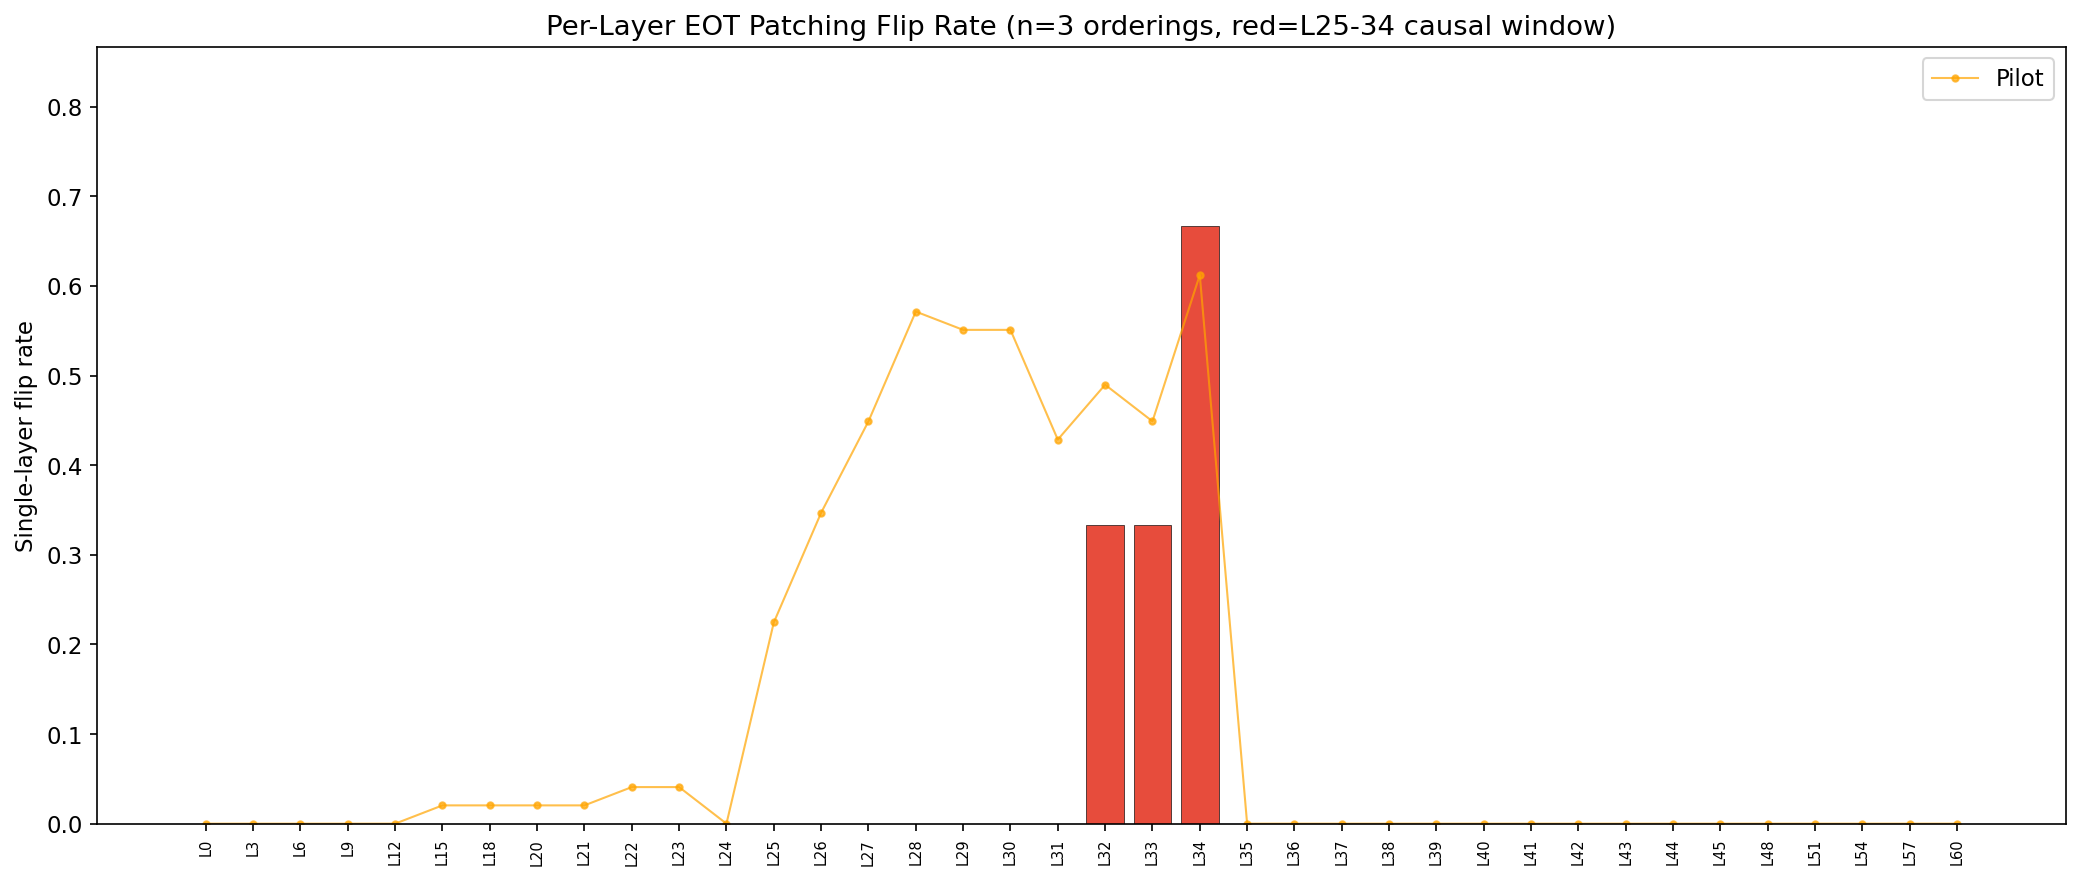
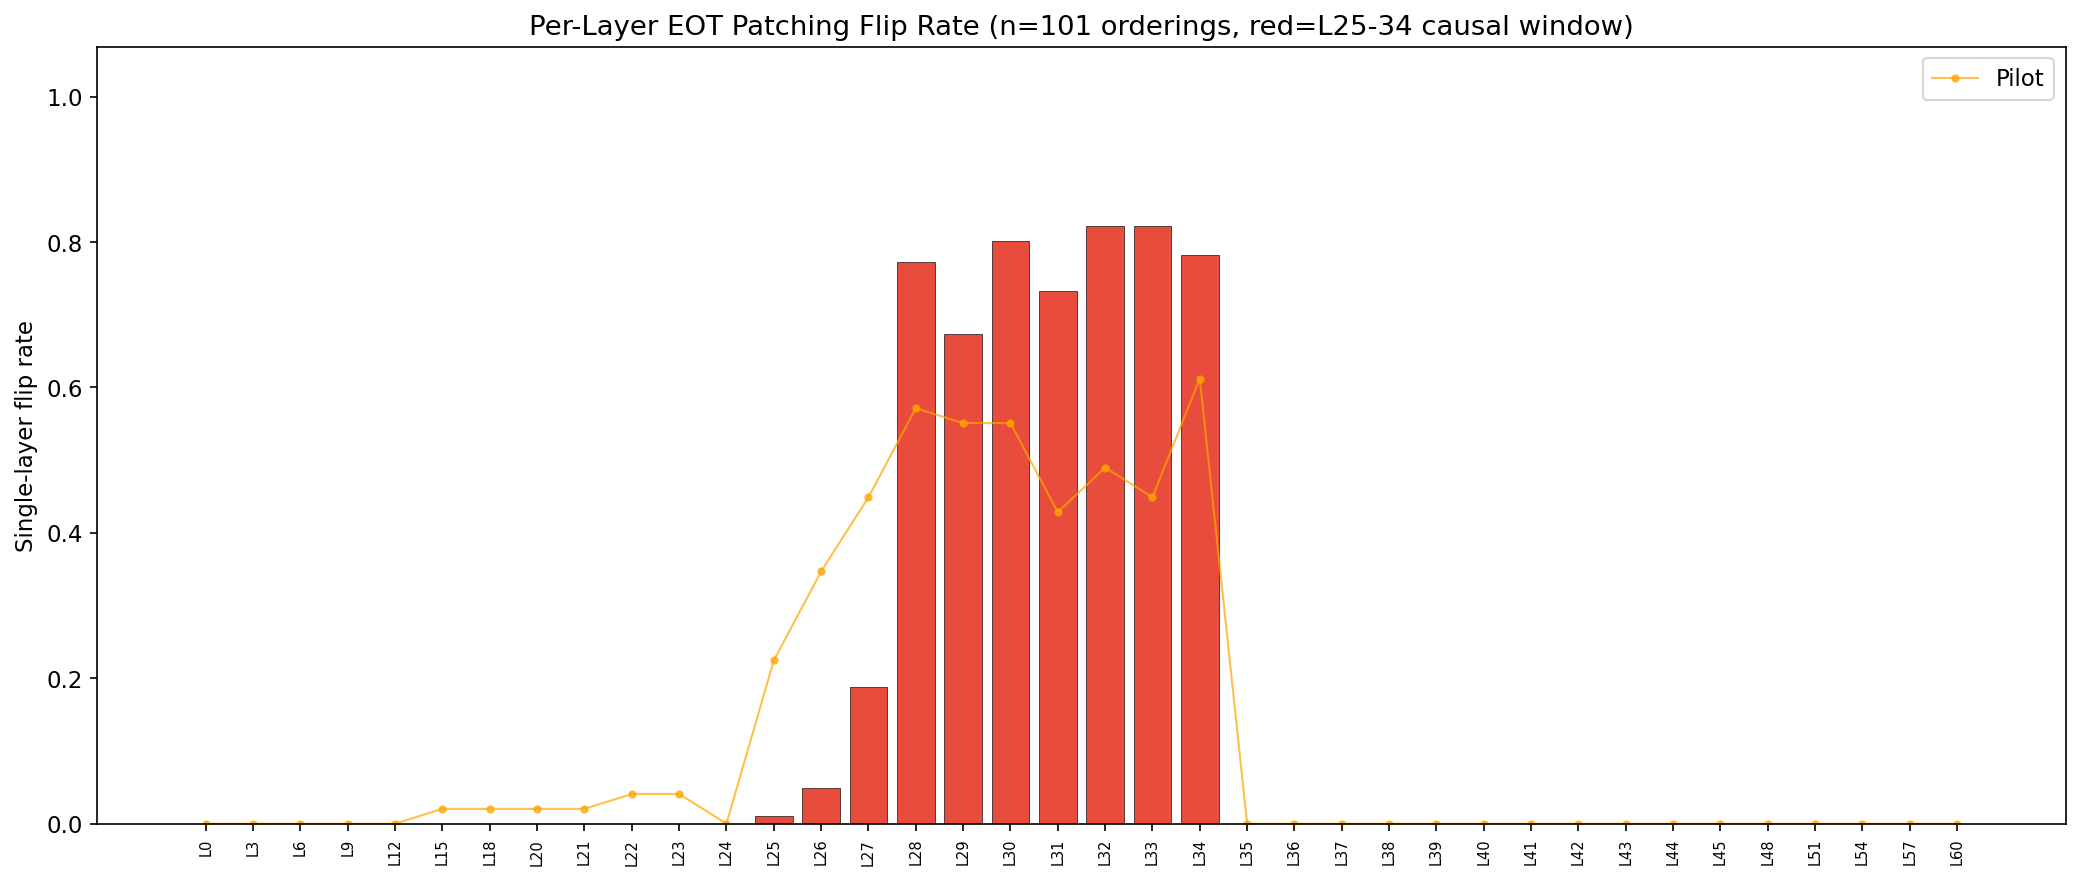
Phase 2 interim: L28-34 causal window confirmed at 67-82% flip rates (n=101)
Layer sweep at n=101 orderings shows sharp causal window:
- L32-33 peak at 82%, L30=80%, L34=78%, L28=77%
- Zero effect outside L26-34
- Much higher than pilot (67-82% vs 43-61%)
- L31 (best probe layer, r=0.86) in middle of window at 73%

diff --git a/experiments/patching/eot_scaled/eot_scaled_report.md b/experiments/patching/eot_scaled/eot_scaled_report.md
@@ -99,16 +99,38 @@ Per-task flip rates range from ~13% to ~83%, broadly distributed across all util
 
 Diverse mix of task types and utility levels in the top-flipping tasks.
 
-## Phase 2: Per-Layer Sweep (IN PROGRESS)
+## Phase 2: Per-Layer Sweep (IN PROGRESS — interim n=101)
 
-Testing 38 layers individually on 5,511 flipping orderings:
-- Every layer in 20-45 (26 layers)
-- Every 3rd layer outside: 0, 3, 6, ..., 18 and 48, 51, 54, 57, 60 (12 layers)
-- 5 trials per layer at temperature 1.0
+Testing 38 layers individually on 5,511 flipping orderings. Interim results from 101 orderings already show a very clear layer profile.
 
-Early data (n=3 orderings): L34 already showing highest single-layer flip rate (67%), with L32-33 also active. Consistent with pilot's L25-34 causal window.
+![Per-layer flip rates](assets/plot_030626_layer_sweep.png)
 
-Expected completion: ~24h from Phase 1 end (~March 7 12:00 UTC).
+### Interim layer profile (n=101)
+
+| Layer | Flip rate | vs Pilot |
+|-------|-----------|----------|
+| L0-25 | 0% | pilot: 0-5% |
+| L26 | 4% | pilot: ~5% |
+| L27 | 18% | pilot: ~45% |
+| **L28** | **77%** | pilot: ~57% |
+| **L29** | **67%** | pilot: ~55% |
+| **L30** | **80%** | pilot: ~55% |
+| **L31** | **73%** | pilot: ~55% |
+| **L32** | **82%** | pilot: ~45% |
+| **L33** | **82%** | pilot: ~43% |
+| **L34** | **78%** | pilot: ~61% |
+| L35+ | 0% | pilot: 0% |
+
+Key findings:
+- **Causal window confirmed: L28-34** — exactly matches the pilot, but with much higher individual flip rates (67-82% vs 43-61%)
+- **Sharp boundaries**: L25=0%, L26=4%, L27=18%, then jumps to 77%+ at L28. L34=78%, then L35=0%. The choice signal is contained in a narrow 7-layer band
+- **Peak layers**: L32-33 (82%) are co-peaks, with L30 (80%) and L34 (78%) close behind. The pilot had L34 as sole peak
+- **Zero effect outside window**: No layer outside L26-34 flips even a single ordering (out of 101 tested)
+- **L31 (best probe layer, r=0.86) sits in the middle of the causal window at 73%** — the probe is reading from causally relevant layers
+
+The higher flip rates vs pilot likely reflect the larger, more diverse task sample. With 101 orderings from 100 tasks, the effect is robust and broadly distributed.
+
+Expected completion: ~40h from Phase 1 end (~March 8 04:00 UTC).
 
 ## Phase 3: Layer Combinations (pending)
 
@@ -128,6 +150,7 @@ Expected: reveal whether top layers are additive or redundant. ~12h runtime.
 
 ## Limitations
 
-- Phase 2/3 not yet complete — no layer profile or combination data at scale
+- Phase 2 interim (n=101/5,511) — layer profile is clear but final rates may shift
+- Phase 3 not yet started — no layer combination data
 - Parse failure rate low (0.7%) — much lower than interim estimate (5.8%) which was inflated by early bailbench pairs
 - Position bias (0.546) may slightly inflate flip rates for orderings where baseline prefers position A

diff --git a/experiments/patching/eot_scaled/running_log.md b/experiments/patching/eot_scaled/running_log.md
@@ -76,4 +76,14 @@
 - 38 layers to sweep, 5 trials each
 - Process healthy (PID 22039)
 - Early results (n=3): L34 = 67%, L32-33 = 33%, all others 0% — pilot causal window confirmed
-- Estimated ~24h for Phase 2 completion
+- Estimated ~40h for Phase 2 completion (revised from 24h based on observed 2.3 orderings/min)
+
+## 2026-03-06: Phase 2 Interim Analysis (12:35 UTC, n=101)
+
+- Layer profile is remarkably clear even at n=101:
+  - L28-34 all at 67-82% flip rate; everything else at 0%
+  - Peaks: L32=82%, L33=82%, L30=80%, L34=78%, L28=77%
+  - Sharp onset: L26=4%, L27=18%, L28=77%
+  - Much higher than pilot (67-82% vs 43-61%) — broader task diversity helps
+- L31 (best probe layer) at 73% — confirms probe reads from causal layers
+- Updated report with interim Phase 2 layer profile and plot
